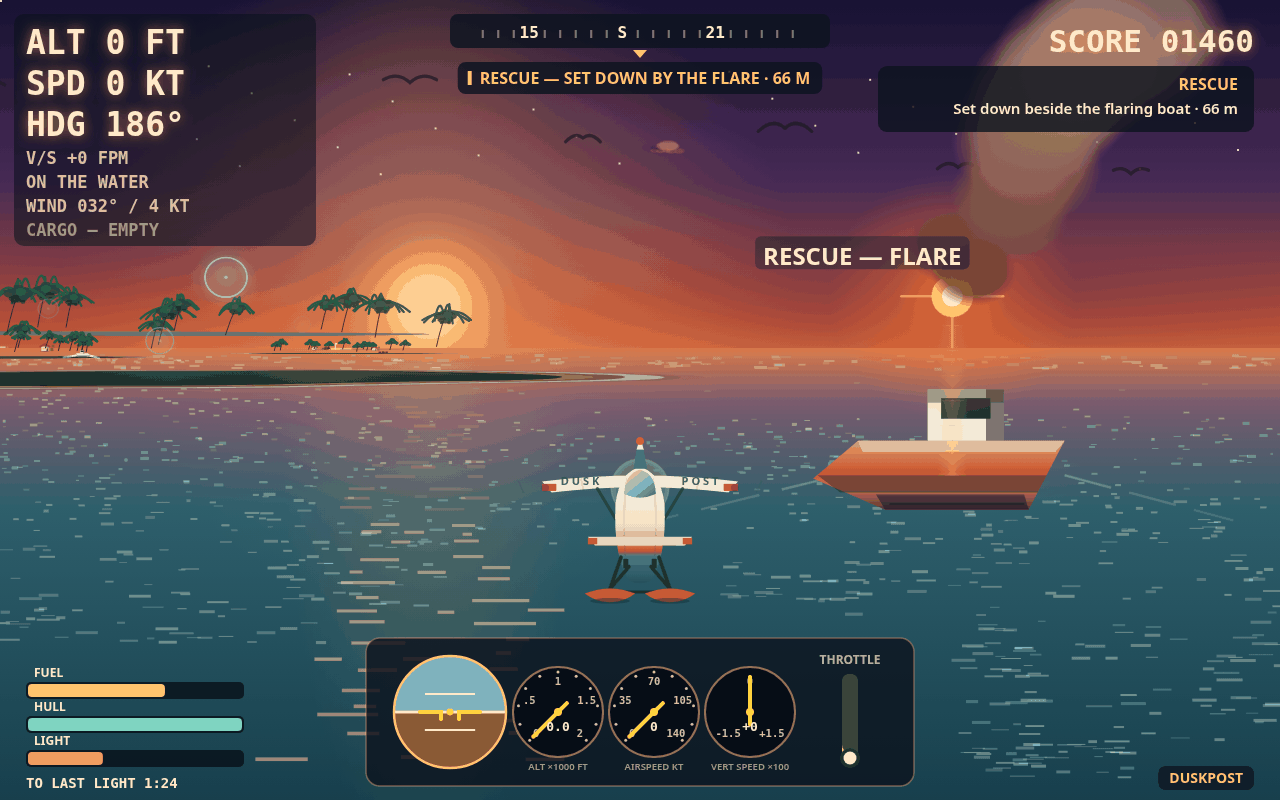
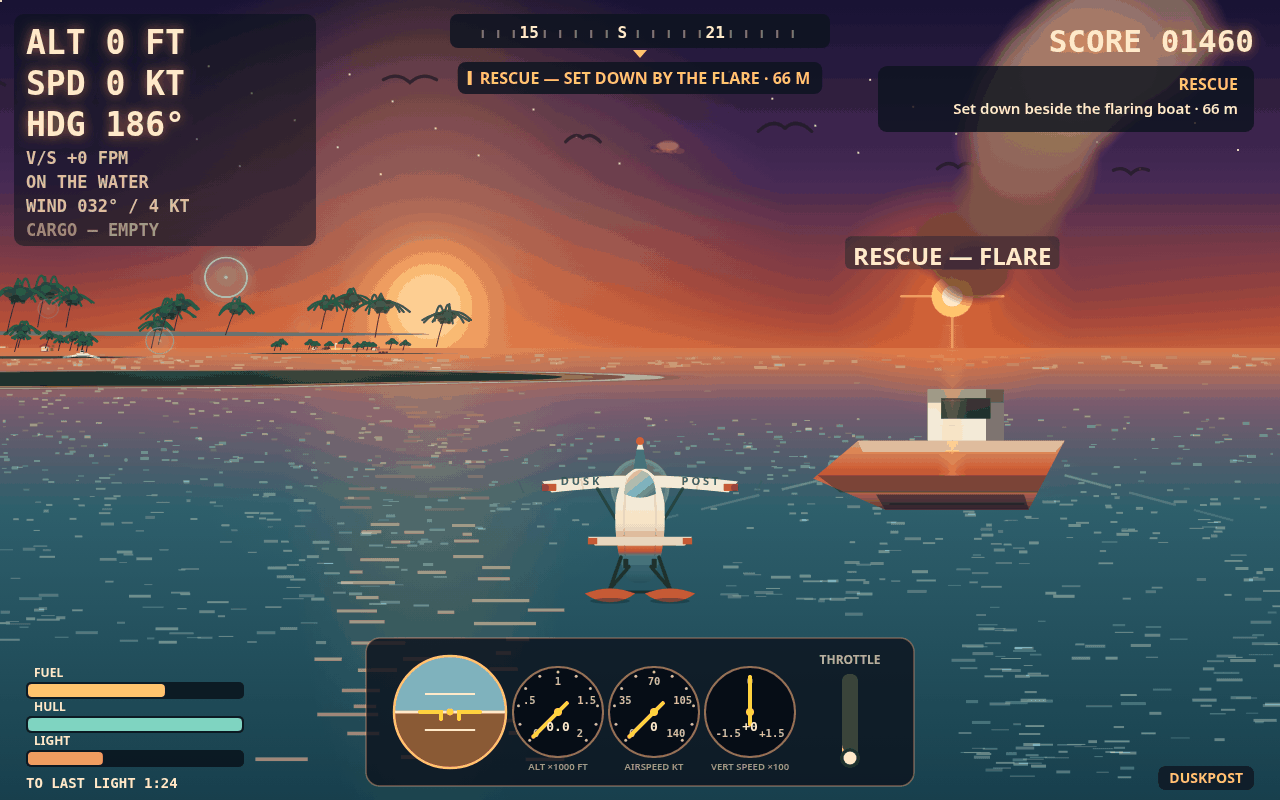
V52: the rescue label sits on its flare again (LABEL-ON-SUBJECT)
V48's rescue-only 90 px left shift kept the RESCUE - FLARE pill off
the plume but left it floating over empty sky, detached from the
flare it names. Probe at offsets -90 / -45 / 0, read at judge size:
centred reads best - the pill sits directly over the flare ball,
the pillar rises through it, the plume head stays clear above.
Rescue frame only; cover, map and storm are byte-identical to V51.

Changed region(s): [[0.5938, 0.2812, 0.8438, 0.3438]]

diff --git a/game/src/main.js b/game/src/main.js
@@ -281,14 +281,15 @@ function drawBeacon(ctx, view, t) {
       // on approach it stacked unreadably over the island against the
       // guidance ladder's own FINAL line naming the same island.
       const tw = ctx.measureText(label).width;
-      // V48 LABEL-CLEAR: the rescue plume drifts right of the flare,
-      // so the label centred on the flare covers the column's core
-      // (x1000-1049 at the pill's height). Rescue-only: shift the
-      // pill left 90 px, so its right edge (~978) clears the column
-      // while the pillar (x950-980) still passes behind the pill's
-      // right edge — the label stays attached to its beacon. Other
-      // missions' labels are untouched.
-      const labelX = m.kind === 'rescue' ? base.x - 90 : base.x;
+      // V52 LABEL-ON-SUBJECT: the label is centred on its beacon
+      // again. V48's rescue-only 90 px left shift cleared the plume
+      // but left the pill floating over empty sky, detached from
+      // the flare it names — a label should sit on its subject.
+      // The V52 probe (offsets -90 / -45 / 0 rendered and read at
+      // judge size) showed the centred pill sits directly over
+      // the flare ball with the pillar rising through it, and
+      // the plume's head stays clear above the pill.
+      const labelX = base.x;
       ctx.fillStyle = 'rgba(10,14,22,0.38)';
       ctx.beginPath();
       ctx.roundRect(labelX - tw / 2 - 8, base.y - pillarH - 10 - fontPx - 5, tw + 16, fontPx + 9, 6);
